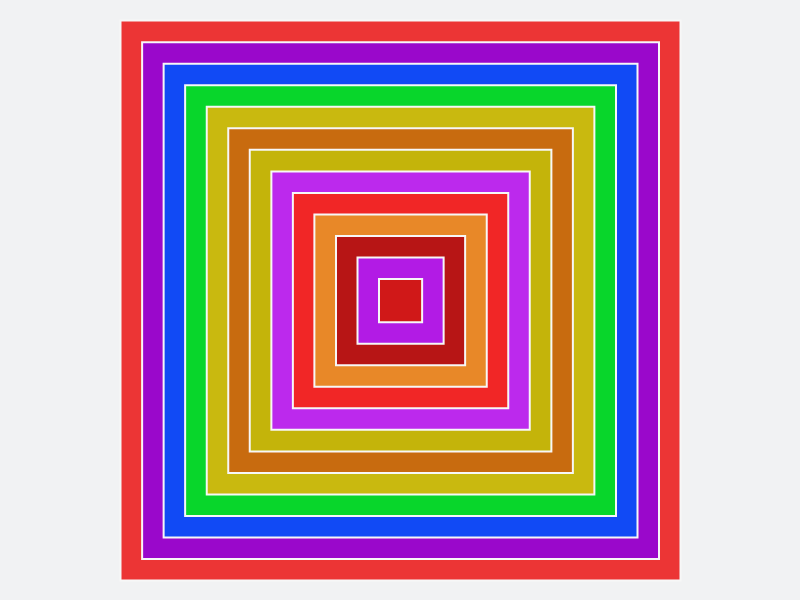
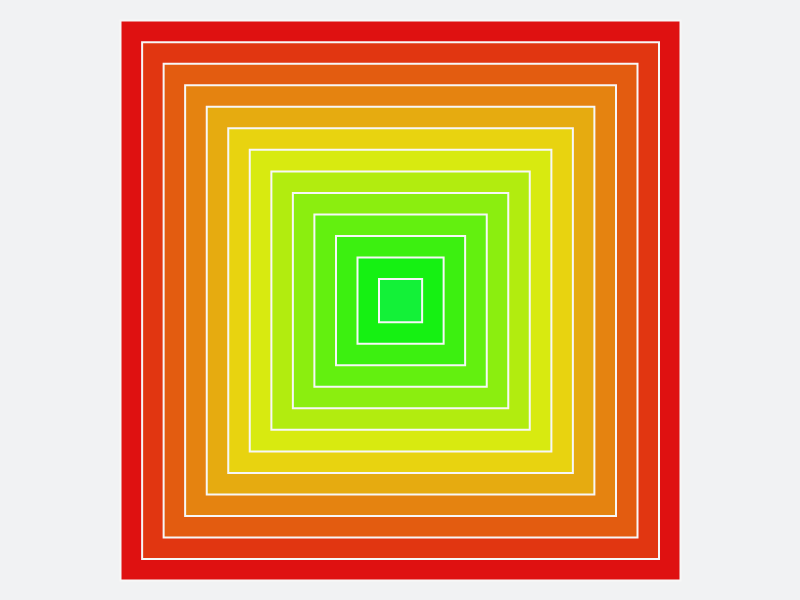
Aggiorna sketch e anteprima di es2

diff --git a/es2/sketch.js b/es2/sketch.js
@@ -45,11 +45,21 @@ function draw() {
 function generaColori() {
   coloriFasce = [];
 
+  const tonoInizio = random(toniPrimari);
+  const tonoFine = random(toniSecondari);
+
+  const satInizio = random(intervalloSaturazione[0], intervalloSaturazione[1]);
+  const satFine = random(intervalloSaturazione[0], intervalloSaturazione[1]);
+
+  const lumInizio = random(intervalloLuminosita[0], intervalloLuminosita[1]);
+  const lumFine = random(intervalloLuminosita[0], intervalloLuminosita[1]);
+
   for (let i = 0; i < numeroFasce; i++) {
-    const toniDisponibili = i % 2 === 0 ? toniPrimari : toniSecondari;
-    const tono = random(toniDisponibili);
-    const saturazione = random(intervalloSaturazione[0], intervalloSaturazione[1]);
-    const luminosita = random(intervalloLuminosita[0], intervalloLuminosita[1]);
+    const t = i / (numeroFasce - 1);
+
+    const tono = lerp(tonoInizio, tonoFine, t);
+    const saturazione = lerp(satInizio, satFine, t);
+    const luminosita = lerp(lumInizio, lumFine, t);
 
     coloriFasce.push(color(tono, saturazione, luminosita));
   }

diff --git a/es2/README.md b/es2/README.md
@@ -1,7 +1,11 @@
 # E2. Astrattismo dinamico
 
+**Opera di riferimento:** Frank Stella, *Honduras Lottery Co.*, 1972.
+
+[Scheda dell’opera su WikiArt](https://www.wikiart.org/en/frank-stella/honduras-lottery-co-1972).
+
+Lo sketch rielabora l’opera con fasce quadrate concentriche su fondo chiaro e neutro. A ogni clic viene scelta una nuova palette: il tono passa da un colore primario a uno secondario, mentre saturazione e luminosità restano entro intervalli definiti.
+
 ![Anteprima del lavoro](preview.png)
 
 Indirizzo pubblico: https://angelicafiacco.github.io/aa2627-tad-es/es2/
-
-Quando il lavoro è pronto, crea `preview.png` con una variante rappresentativa: serve all’anteprima nella pagina delle revisioni del corso.
